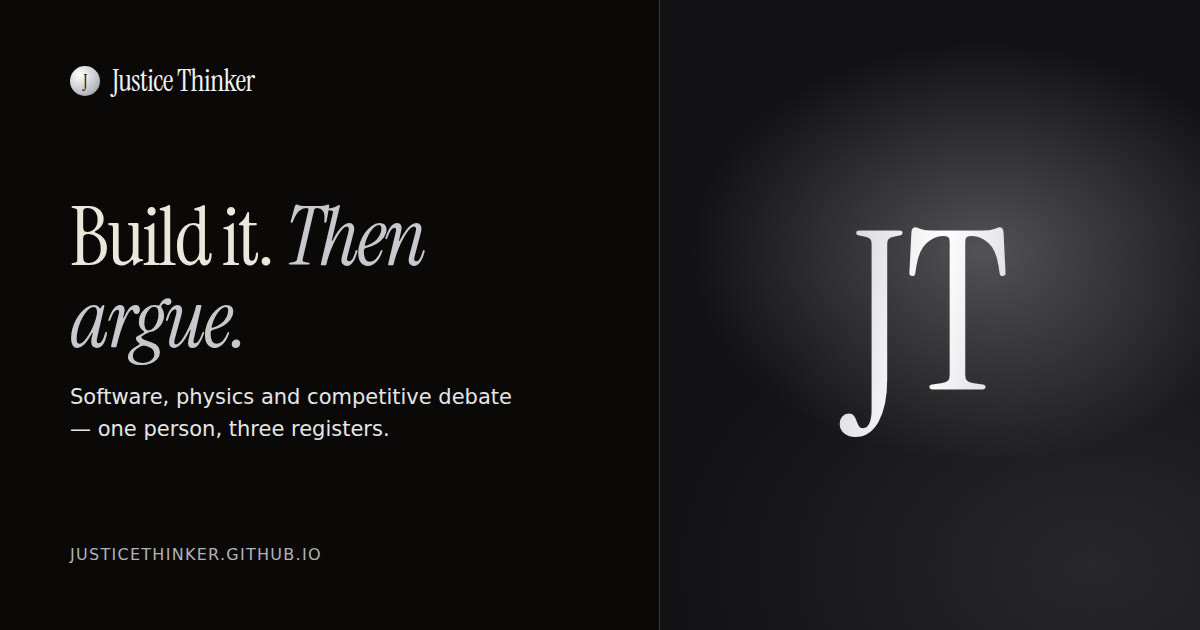
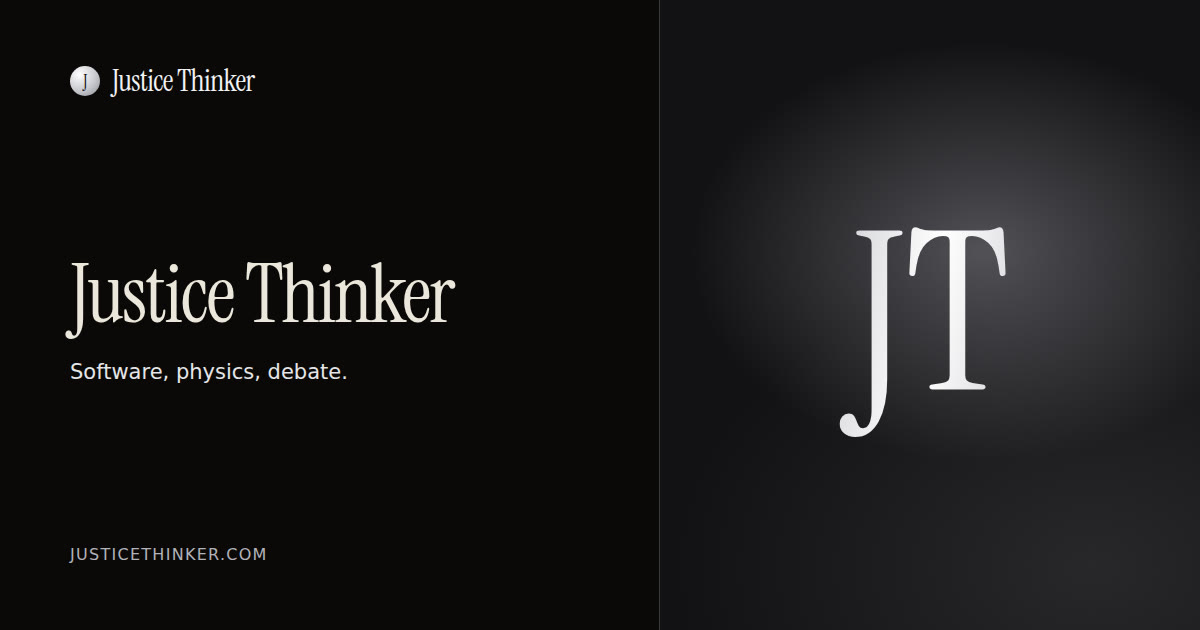
copy(site): plain wording across every page, no brochure voice
Literal headings, instructions as instructions, slogans and
writing-about-the-writing removed. Facts unchanged; thesis
paragraphs left as placeholders for the owner.

Generated with Codebuff

Changed region(s): [[0.0308, 0.3016, 0.4317, 0.6937], [0.185, 0.8746, 0.2775, 0.9048]]

diff --git a/src/data/site.ts b/src/data/site.ts
@@ -8,9 +8,7 @@ export const identity = {
   name: 'Justice Thinker',
   legalName: 'Emmanuel Isaac',
   role: 'AI & Software Developer',
-  tagline: 'Thought in progress.',
-  statement:
-    'I build software, study physics, and argue competitively. This site holds all four registers in one place.',
+  statement: 'I build software, study physics, and argue competitively.',
   email: 'justicethinker@justicethinker.com',
   github: 'https://github.com/justicethinker',
   githubHandle: 'github.com/justicethinker',
@@ -35,7 +33,7 @@ export const navPrimary: NavItem[] = [
 
 /** Everything, for the menu and the footer. */
 export const navAll: NavItem[] = [
-  { href: '/', label: 'Me' },
+  { href: '/', label: 'Home' },
   { href: '/tech', label: 'Tech' },
   { href: '/debate', label: 'Debate' },
   { href: '/writing', label: 'Writing' },
@@ -255,7 +253,7 @@ export const talks = [
 export const debateRules = [
   {
     name: 'Precision',
-    body: 'Every word carries weight. Say it short, say it once.',
+    body: 'Say it short, say it once.',
   },
   {
     name: 'Evidence',
@@ -267,7 +265,7 @@ export const debateRules = [
   },
   {
     name: 'Impact',
-    body: 'Arranged to change a position, not to fill an hour.',
+    body: 'Meant to change a position.',
   },
 ];
 
@@ -315,11 +313,11 @@ export const physicsInterests = [
   },
   {
     name: 'Wave dynamics',
-    body: 'Propagation, interference and resonance — the patterns on this page are computed, not drawn.',
+    body: 'Propagation, interference and resonance. The patterns on this page are computed.',
   },
   {
     name: 'Computational physics',
-    body: 'Numerical models in Python: simulate first, argue with data second.',
+    body: 'Numerical models in Python. I model first, then argue from the data.',
   },
   {
     name: 'Instrumentation',

diff --git a/src/scripts/scales.js b/src/scripts/scales.js
@@ -226,10 +226,10 @@ function boot(stageEl) {
     if (readout) {
       const verdict =
         f === a
-          ? 'Balanced — the record weighs the same either way.'
+          ? `Even: ${f} each side.`
           : f > a
-            ? `Proposition side carries ${f} to ${a}.`
-            : `Opposition side carries ${a} to ${f}.`;
+            ? `Proposition ${f}, Opposition ${a}.`
+            : `Proposition ${f}, Opposition ${a}.`;
       if (readout.textContent !== verdict) readout.textContent = verdict;
     }
     canvas.dataset.scaleFor = String(f);

diff --git a/tools/og-card.html b/tools/og-card.html
@@ -122,13 +122,11 @@
       <span class="mark"><i>J</i> Justice Thinker</span>
 
       <div>
-        <h1>Build it. <em>Then argue.</em></h1>
-        <p class="role">
-          Software, physics and competitive debate — one person, three registers.
-        </p>
+        <h1>Justice Thinker</h1>
+        <p class="role">Software, physics, debate.</p>
       </div>
 
-      <span class="site">justicethinker.github.io</span>
+      <span class="site">justicethinker.com</span>
     </div>
 
     <div class="right"></div>

diff --git a/src/scripts/wave.js b/src/scripts/wave.js
@@ -364,8 +364,8 @@ function boot(wrapper) {
     if (readout) {
       readout.textContent =
         sources.length === 1
-          ? 'One source: clean rings, nothing to argue with.'
-          : `${sources.length} sources: drag one and watch the pattern renegotiate.`;
+          ? 'One source.'
+          : `${sources.length} sources. Drag one to move it.`;
     }
     if (addBtn) addBtn.disabled = sources.length >= 3;
   }
